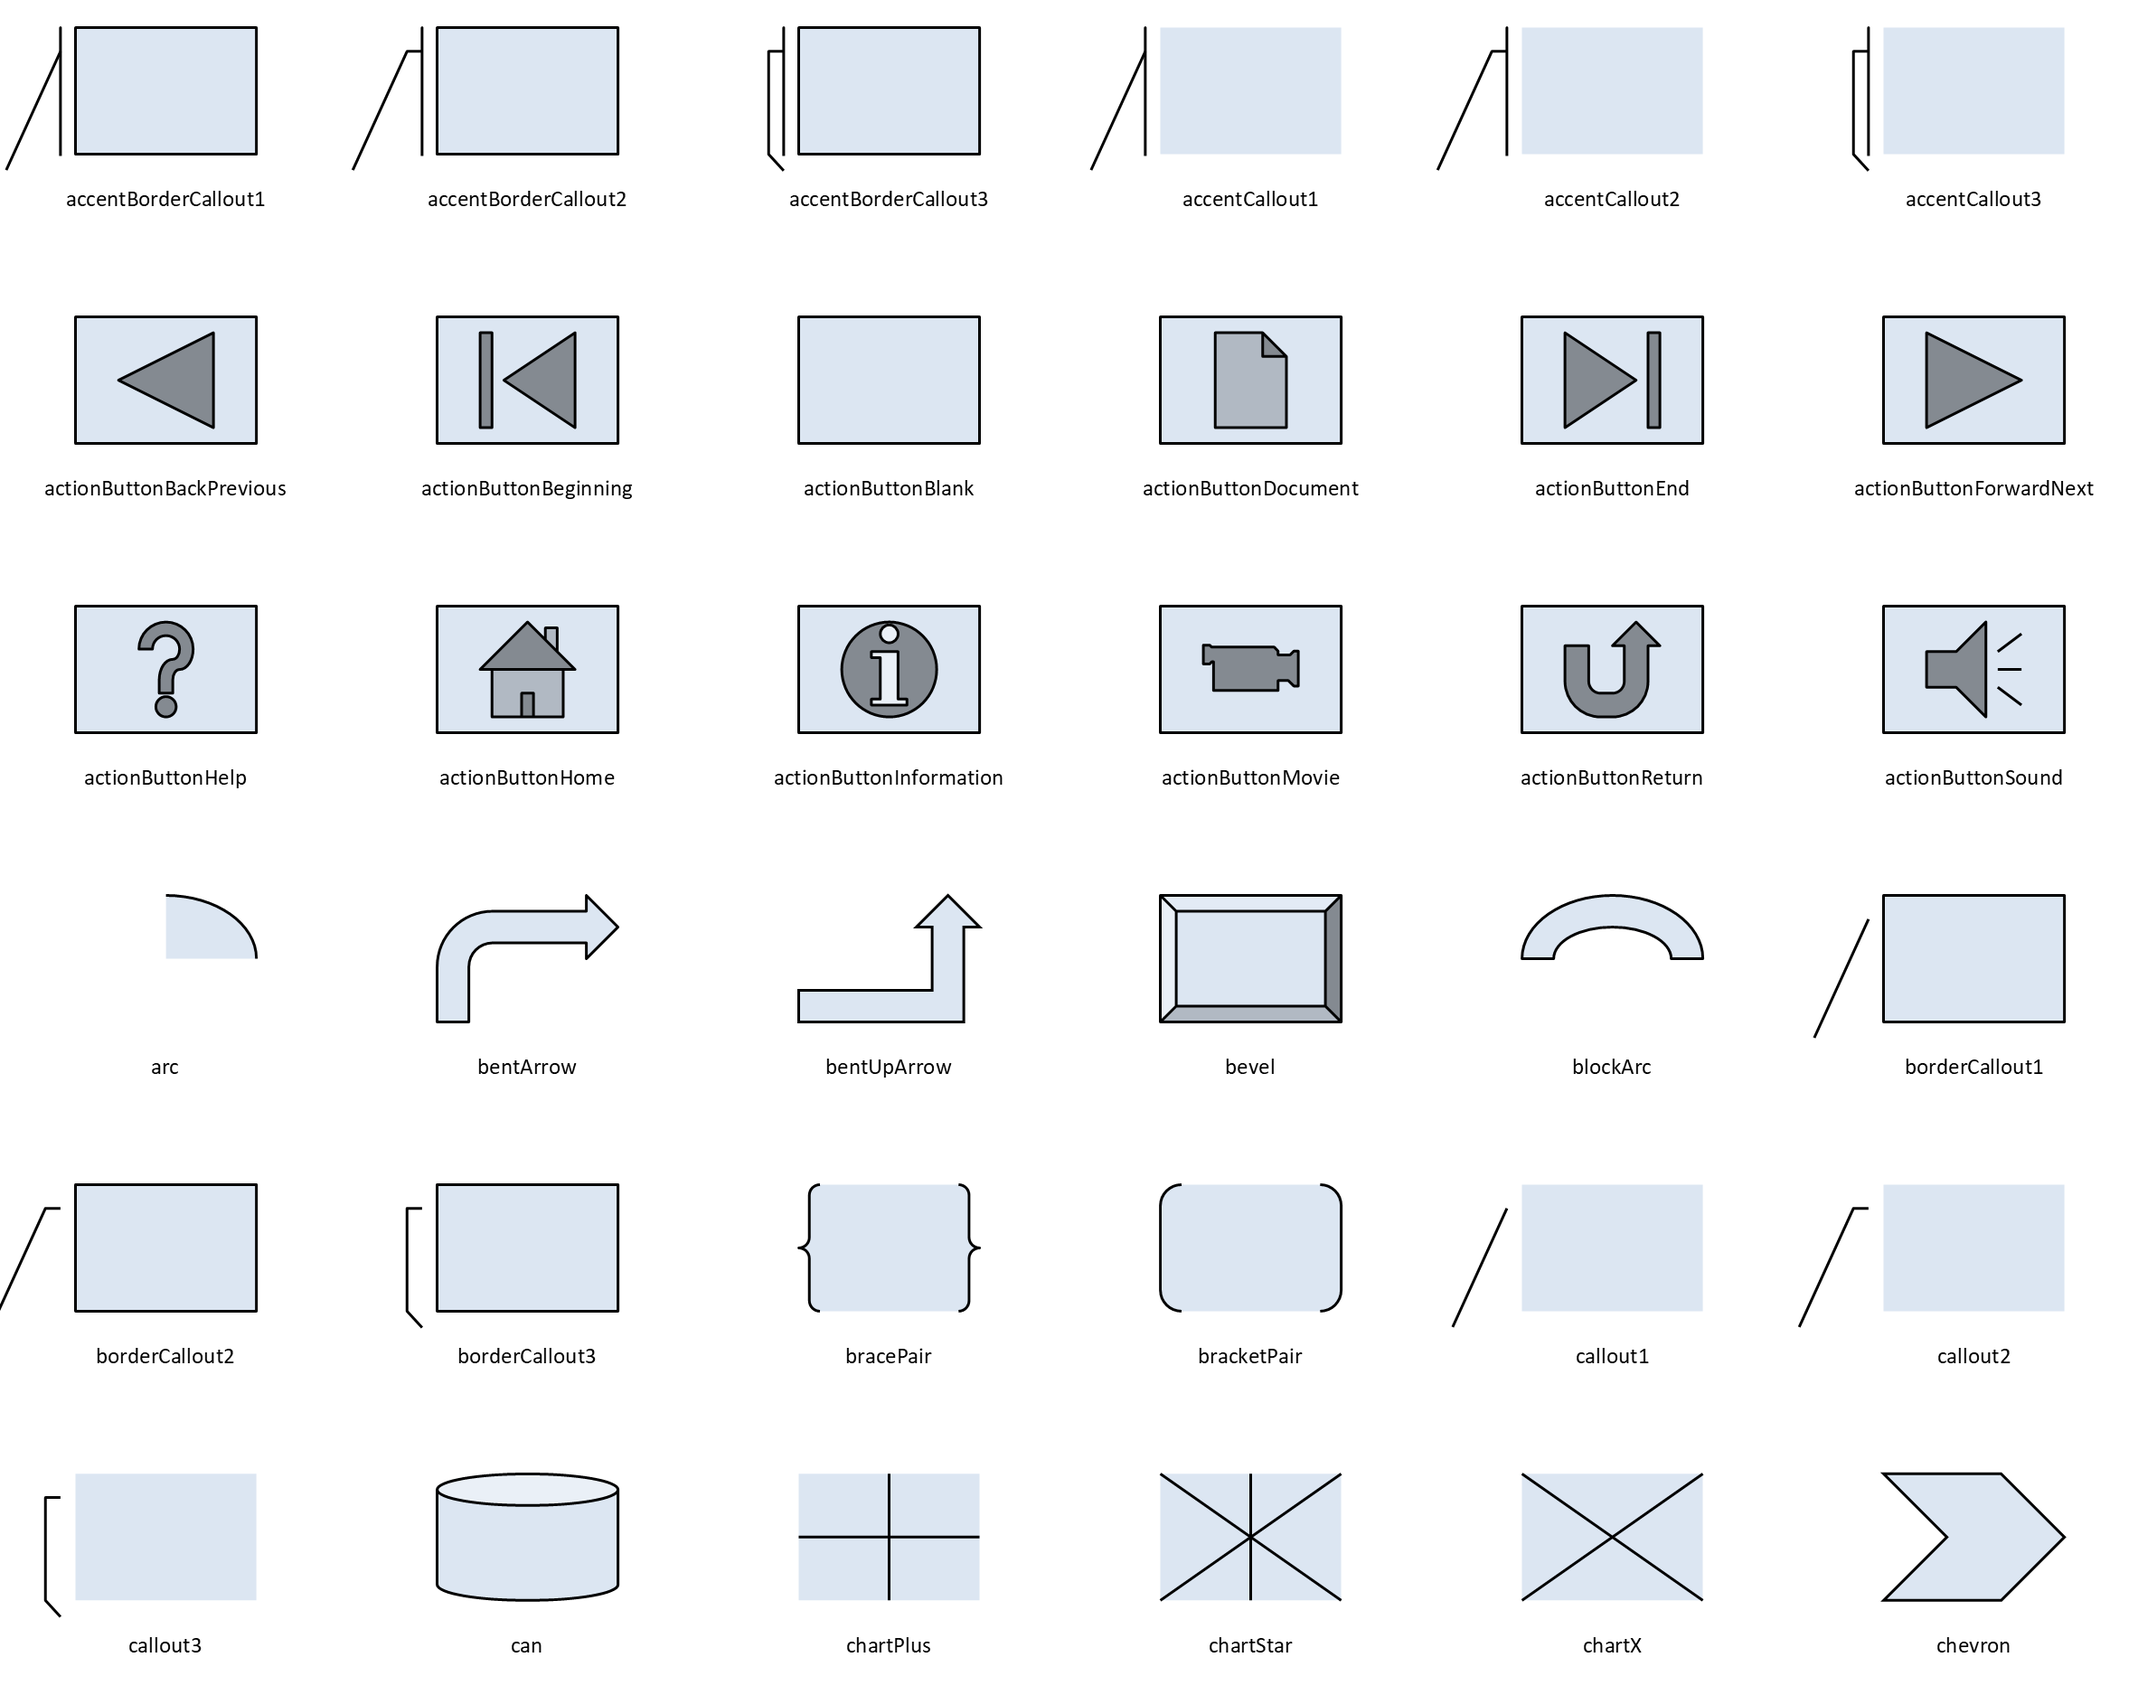
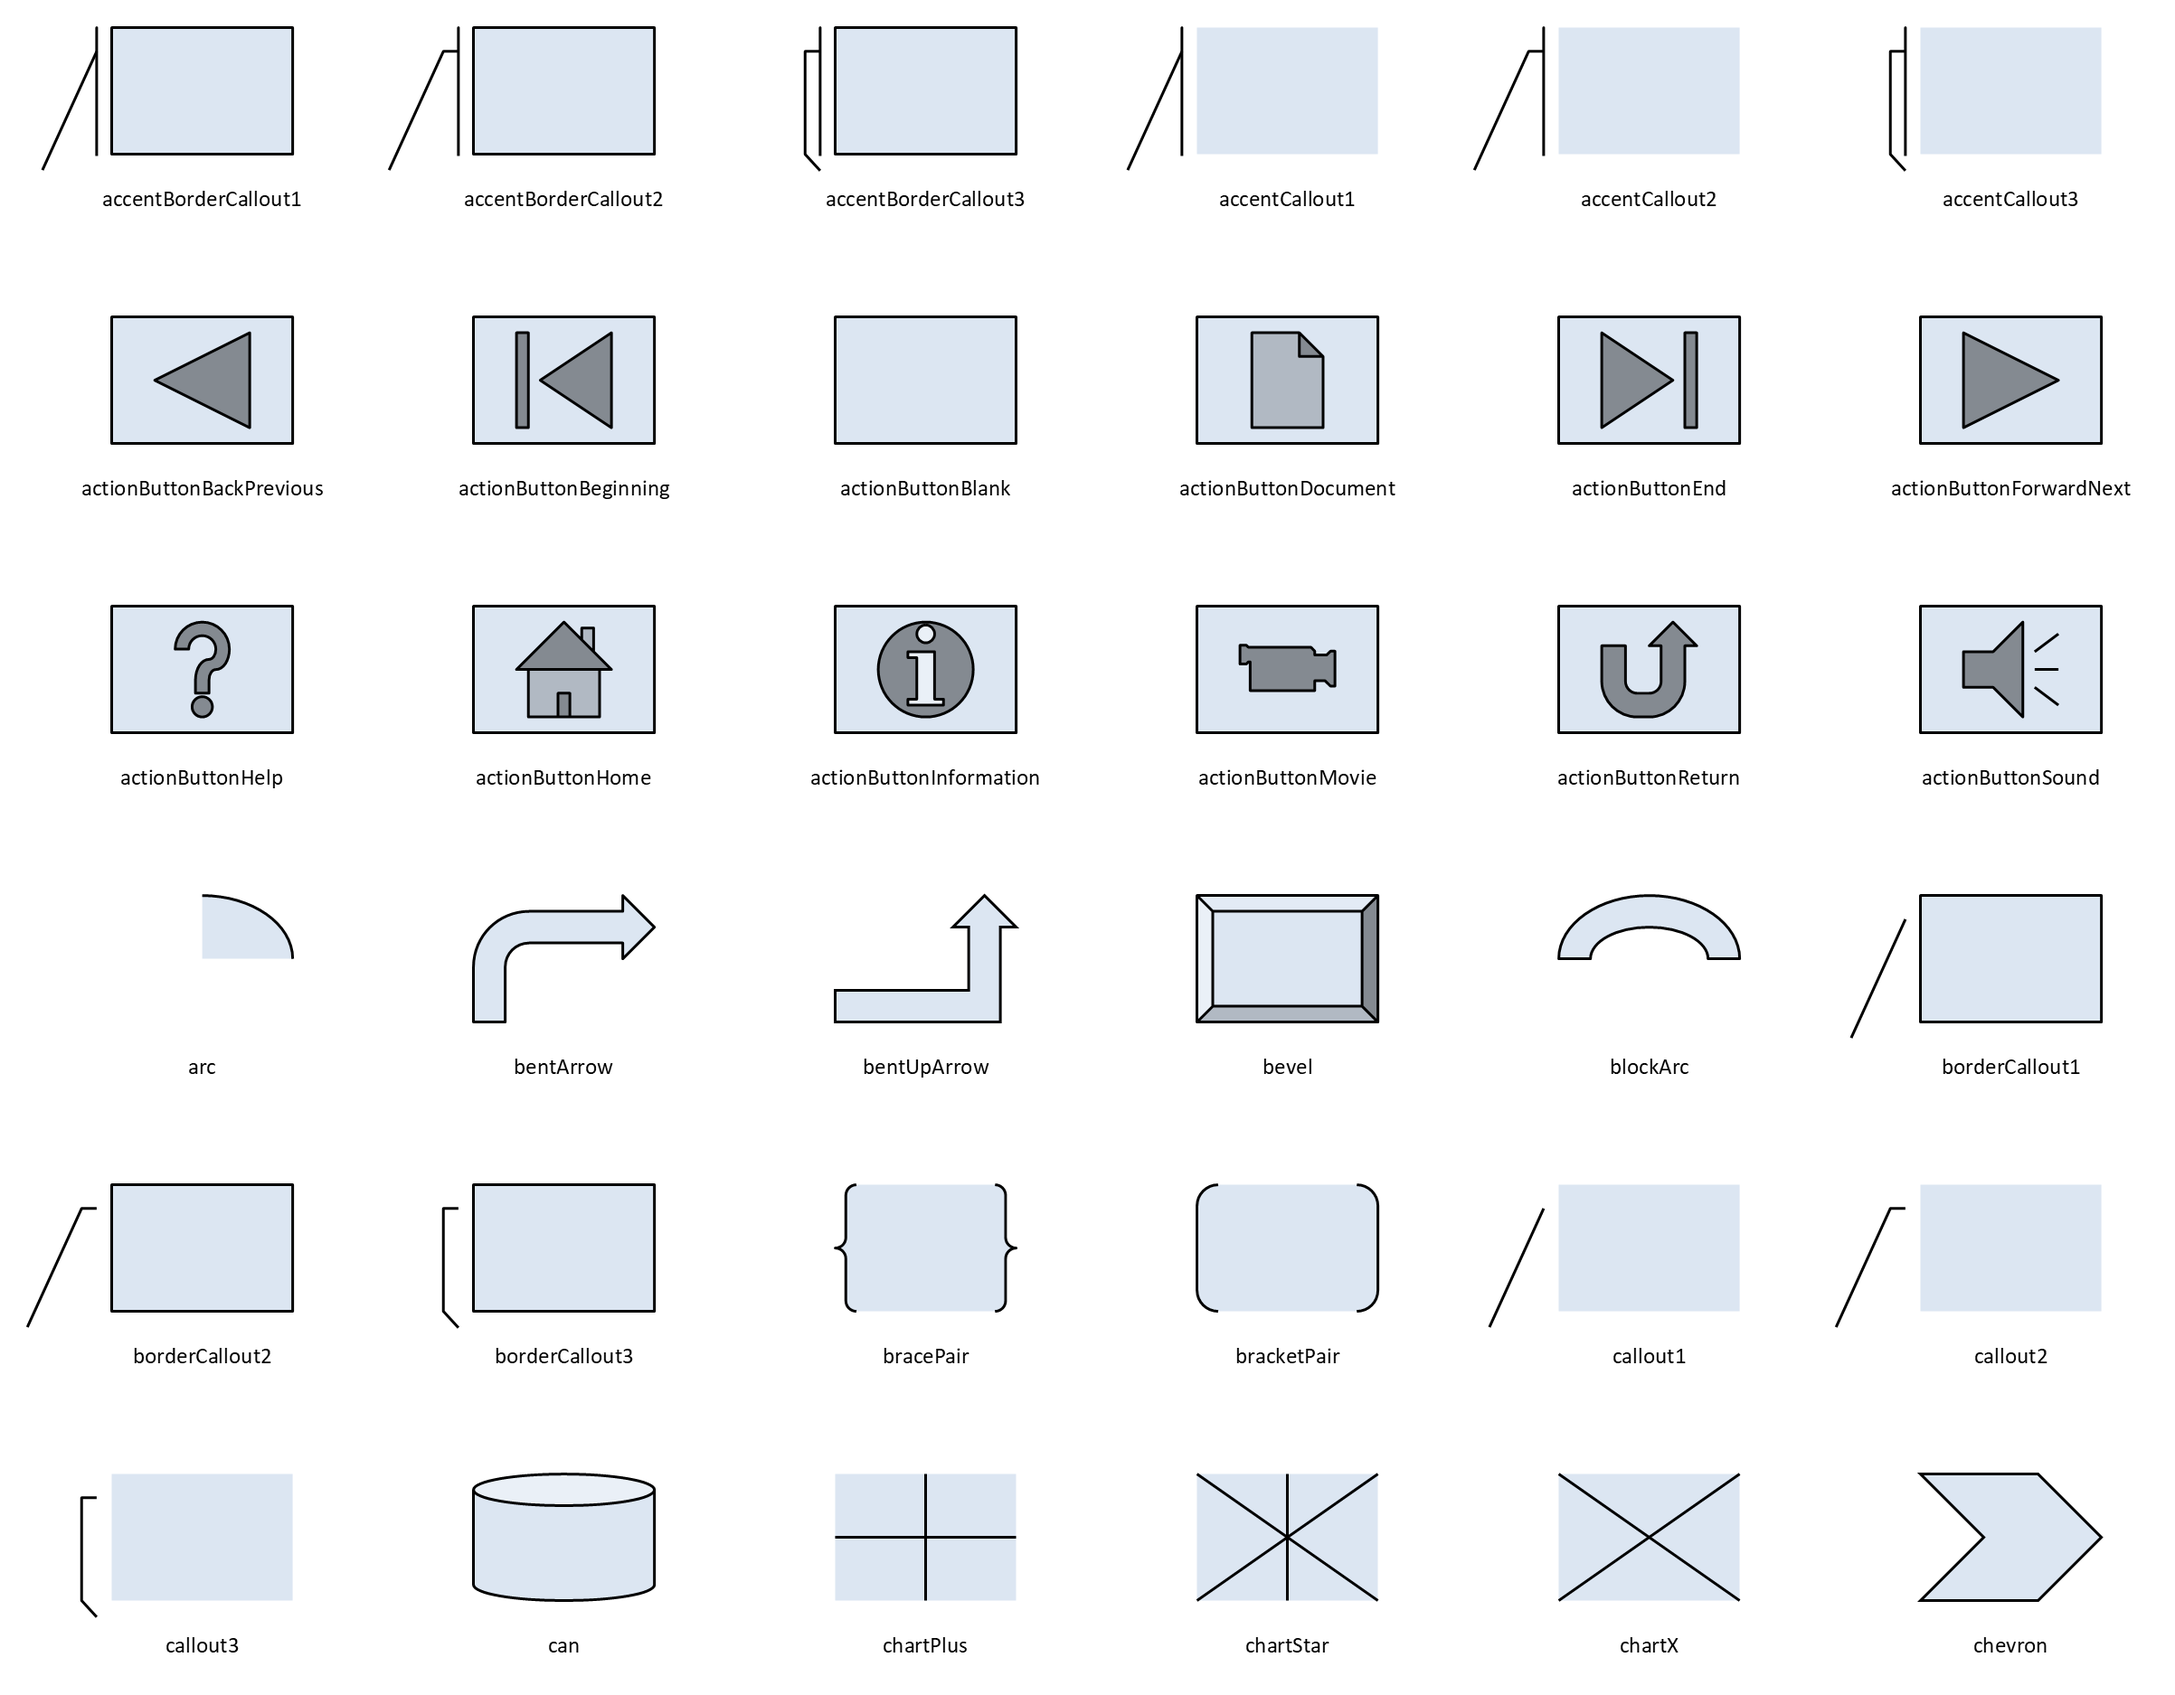
Hold a callout's tip and leader line on the slide
A callout's tip, and its leader line, are drawn outside its box: where
`tip at` points, and even by default, a wedge's an eighth of its height
below it, a leader line off to its lower left. The slide was sized to
the boxes and the lines' labels alone, so they ran off it and were cut
off, with no warning. The gallery's borderCallout2 had lost the end of
its line.

Now the slide holds them, as it holds a line's labels, and with
--template the warning about a diagram bigger than its content area
counts them. --check gives a callout's `tip`, since x, y, wid and ht
don't show it.

Closes #30

diff --git a/src/pikslide/pptx_writer.py b/src/pikslide/pptx_writer.py
@@ -45,6 +45,7 @@ from .pik.layout import (
     _text_size_name,
     arc_control_point,
     assign_text_slots,
+    callout_points,
     default_text_sizes,
     flatten_shapes,
     line_points,
@@ -964,19 +965,28 @@ def _add_line_text(container, shape: Shape, tf: _Transform) -> None:
         _apply_color(run.font.color, string_color(shape, i - 1) or Color(rgb=0))
 
 
+def _drawn_extent(shape: Shape) -> tuple[float, float, float, float]:
+    """shape.bbox, expanded to also cover what is drawn outside it: a
+    line's labels -- a line's own bbox is just its path, so a label
+    floating above/below it (see _line_label_rects()) can stick out past
+    it -- and a callout's tip or leader line (callout_points())."""
+    x0, y0, x1, y1 = shape.bbox
+    rects = [rect for rect, _text, _flags in _line_label_rects(shape)] if shape.kind in LINE_LIKE else []
+    rects += [(x, y, x, y) for x, y in callout_points(shape)]
+    for rx0, ry0, rx1, ry1 in rects:
+        x0, y0, x1, y1 = min(x0, rx0), min(y0, ry0), max(x1, rx1), max(y1, ry1)
+    return x0, y0, x1, y1
+
+
 def _content_bbox(result: LayoutResult) -> tuple[float, float, float, float]:
-    """result.bbox, expanded to also cover line labels -- a line's own
-    bbox is just its path, so a label floating above/below it (see
-    _line_label_rects()) can stick out past result.bbox on its own.
-    flatten_shapes(), not result.shapes directly, since a line can be
-    nested inside a block (docs/spec.md SS3.1, ext) at any depth."""
+    """result.bbox, expanded to also cover what each shape draws outside
+    its own (_drawn_extent()). flatten_shapes(), not result.shapes
+    directly, since a line can be nested inside a block (docs/spec.md
+    SS3.1, ext) at any depth."""
     x0, y0, x1, y1 = result.bbox
     for shape in flatten_shapes(result.shapes):
-        if shape.kind not in ("line", "arrow", "spline", "arc"):
-            continue
-        for (lx0, ly0, lx1, ly1), _text, _flags in _line_label_rects(shape):
-            x0, y0 = min(x0, lx0), min(y0, ly0)
-            x1, y1 = max(x1, lx1), max(y1, ly1)
+        sx0, sy0, sx1, sy1 = _drawn_extent(shape)
+        x0, y0, x1, y1 = min(x0, sx0), min(y0, sy0), max(x1, sx1), max(y1, sy1)
     return x0, y0, x1, y1
 
 
@@ -1209,7 +1219,7 @@ def _content_area_overflow(prs: Presentation, layout, result: LayoutResult) -> l
     """A warning, if the diagram is wider or taller than the content area
     it goes in: it is never scaled to fit (docs/spec.md SS4), so it runs
     past it, to the right and down. It names the objects that do, a
-    line's labels counting as part of it."""
+    line's labels and a callout's tip counting as part of it."""
     (_left, _top, area_w, area_h), what = _content_area(prs, layout)
     x0, y0, x1, y1 = _content_bbox(result)
     w, h = x1 - x0, y1 - y0
@@ -1217,10 +1227,7 @@ def _content_area_overflow(prs: Presentation, layout, result: LayoutResult) -> l
         return []
     past = []
     for shape in flatten_shapes(result.shapes):
-        sx0, sy0, sx1, sy1 = shape.bbox
-        labels = _line_label_rects(shape) if shape.kind in LINE_LIKE else []
-        for (lx0, ly0, lx1, ly1), _text, _flags in labels:
-            sx0, sy0, sx1, sy1 = min(sx0, lx0), min(sy0, ly0), max(sx1, lx1), max(sy1, ly1)
+        _sx0, sy0, sx1, _sy1 = _drawn_extent(shape)
         if sx1 - x0 > area_w + 1e-6 or y1 - sy0 > area_h + 1e-6:
             past.append(shape.name or "")
     return [LayoutWarning(

diff --git a/tests/test_handles.py b/tests/test_handles.py
@@ -10,7 +10,7 @@ import pytest
 from pptx import Presentation
 
 from pikslide.pik import ast, parse
-from pikslide.pik.layout import LayoutError, flatten_shapes, resolve_layout
+from pikslide.pik.layout import LayoutError, callout_points, flatten_shapes, resolve_layout
 from pikslide.pik.text_area import text_rect
 from pikslide.pptx_writer import resolve_for_pptx, write_pptx
 
@@ -161,3 +161,21 @@ def test_the_deck_has_the_adjust_values(tmp_path: pathlib.Path):
     assert guides(arrow) == [("adj1", "val 50000"), ("adj2", "val 30000")]
     assert guides(card) == [("adj", "val 30000")]
     assert guides(callout) == [("adj1", "val 200000"), ("adj2", "val 200000")]
+
+
+def test_callout_points_are_where_its_tip_and_leader_line_are_drawn():
+    # Issue #30: outside the box, for the slide to hold them.
+    assert callout_points(shape("shape wedgeRectCallout at (0, 0) tip at (1.5, -1)\n")) == [pytest.approx((1.5, -1))]
+    # The preset's defaults, with no tip: an eighth of its height below it.
+    assert callout_points(shape("shape wedgeRectCallout wid 1 ht 1\n")) == [pytest.approx((-0.20833, -0.625))]
+    # A leader line's points, the tip last.
+    [*bends, tip] = callout_points(shape("shape callout2 at (0, 0) tip at (-1.5, -0.5)\n"))
+    assert len(bends) == 2 and tip == pytest.approx((-1.5, -0.5))
+    assert callout_points(shape("shape rightArrow\n")) == []
+
+
+def test_the_slide_holds_a_callouts_tip(tmp_path: pathlib.Path):
+    out = tmp_path / "out.pptx"
+    write_pptx(resolve_for_pptx(parse("shape wedgeRectCallout wid 1 ht 1 at (0, 0) tip at (2, -2)\n")), str(out), margin=0)
+    prs = Presentation(str(out))
+    assert (prs.slide_width.inches, prs.slide_height.inches) == pytest.approx((2.5, 2.5))

diff --git a/src/pikslide/__init__.py b/src/pikslide/__init__.py
@@ -5,7 +5,7 @@ import sys
 from importlib.metadata import version
 
 from .pik import PikSyntaxError, dump, format_syntax_error, parse
-from .pik.layout import LayoutError, LayoutWarning, flatten_shapes
+from .pik.layout import LayoutError, LayoutWarning, callout_points, flatten_shapes
 from .pik.tokens import column_at
 from .pptx_writer import find_settings_file, resolve_for_pptx, slide_frame, write_pptx, write_pptx_from_template
 from .help import hint as help_hint
@@ -239,7 +239,8 @@ def _succeed_check(warnings: list[LayoutWarning], slide: dict, shapes: list) -> 
 def _geometry(shape) -> dict:
     """Where `shape` went, as the source itself would measure it: x, y,
     wid and ht as `A.x`, `A.y`, `A.wid` and `A.ht` give them (inches, y
-    up), or for a line the points it passes through."""
+    up), and a callout's tip, which is often outside them (issue #30); or
+    for a line the points it passes through."""
     kind = f"shape {shape.preset}" if shape.kind == "shape" else shape.kind
     obj: dict = {"name": shape.name, "kind": kind}
     if shape.texts:
@@ -251,6 +252,9 @@ def _geometry(shape) -> dict:
             obj["attached"] = attached
     else:
         obj.update(x=round(shape.cx, 2), y=round(shape.cy, 2), wid=round(shape.w, 2), ht=round(shape.h, 2))
+        points = callout_points(shape)
+        if points:
+            obj["tip"] = [round(points[-1][0], 2), round(points[-1][1], 2)]
     return obj
 
 

diff --git a/src/pikslide/pik/layout.py b/src/pikslide/pik/layout.py
@@ -1580,6 +1580,24 @@ def _tip_values(shape: Shape, tip: tuple[float, float]) -> dict[str, float]:
     return values
 
 
+def callout_points(shape: Shape) -> list[tuple[float, float]]:
+    """Where a callout's tip, or the points of its leader line, are drawn
+    (inches, y up), the tip last, from its adjust values or else the
+    preset's defaults: often outside its box, which its bbox is (issue
+    #30). Empty for any other shape."""
+    preset = shape.preset or ""
+    if preset not in TIP_CALLOUTS:
+        return []
+    values = {**dict(ADJUST_VALUES[preset]), **shape.adjust}
+    if preset in _WEDGE_CALLOUTS:
+        return [(shape.cx + values["adj1"] / 100000 * shape.w, shape.cy - values["adj2"] / 100000 * shape.h)]
+    left, top = shape.cx - shape.w / 2, shape.cy + shape.h / 2
+    return [
+        (left + values[f"adj{2 * k + 2}"] / 100000 * shape.w, top - values[f"adj{2 * k + 1}"] / 100000 * shape.h)
+        for k in range(TIP_CALLOUTS[preset])
+    ]
+
+
 def _autosize_text(shape: Shape, ctx: _Ctx) -> None:
     """Size a "fit" object to its text using ctx.metrics: the pptx
     backend's PilFontMetrics measures actual glyph widths; only the fallback _ApproxMetrics estimates from flat constants.

diff --git a/tests/test_pptx_writer.py b/tests/test_pptx_writer.py
@@ -775,6 +775,15 @@ def test_diagram_bigger_than_the_content_area_is_a_warning(tmp_path: pathlib.Pat
     assert w.objects == ("box 1",)
 
 
+def test_a_callouts_tip_past_the_content_area_is_a_warning(tmp_path: pathlib.Path):
+    # Issue #30: the box fits, its tip doesn't.
+    tmpl = _template_deck(tmp_path)
+    [w] = resolve_for_pptx(parse("C: shape wedgeRectCallout wid 1 ht 1 at (0, 0) tip at (9, 0)\n"),
+                           template_path=str(tmpl)).warnings
+    assert w.message.startswith("the diagram (9.50 x 1.00 in) is bigger than")
+    assert w.objects == ("C",)
+
+
 def test_template_uses_title_and_content_by_default(tmp_path: pathlib.Path):
     # The first layout with exactly one placeholder besides its title,
     # subtitle, date, footer and slide number: not Title Slide (a title and

diff --git a/tests/test_cli.py b/tests/test_cli.py
@@ -271,6 +271,14 @@ def test_check_reports_where_each_object_went(monkeypatch, capsys, tmp_path):
                      "points": [[1.38, 2.0], [2.38, 2.0], [2.38, 3.0]]}
 
 
+def test_check_reports_a_callouts_tip(monkeypatch, capsys, tmp_path):
+    # Issue #30: often outside x, y, wid and ht.
+    src = _write(tmp_path, "d.pik", 'C: shape wedgeRectCallout "note" at (0, 0) tip at (1.5, -1)\n')
+    _run(monkeypatch, [str(src), "--check"])
+    [callout] = json.loads(capsys.readouterr().out)["objects"]
+    assert callout["tip"] == [1.5, -1.0]
+
+
 def test_check_names_a_preset_and_leaves_out_what_isnt_drawn(monkeypatch, capsys, tmp_path):
     src = _write(tmp_path, "d.pik", "P: (0, 0)\nmove\nshape chevron\n")
     _run(monkeypatch, [str(src), "--check"])

diff --git a/src/pikslide/help.py b/src/pikslide/help.py
@@ -1034,7 +1034,8 @@ def llm_text() -> str:
         "with the objects it names, among them objects, text and lines that overlap;",
         "the slide, its left and top edges, wid and ht, and placeholders (none",
         "without --template), nothing else being on it; and where each object went,",
-        "x, y, wid and ht as A.x, A.y, A.wid and A.ht give them, or a line's points.",
+        "x, y, wid and ht as A.x, A.y, A.wid and A.ht give them (and a callout's",
+        "tip), or a line's points.",
         "",
         _INTRO_BODY,
         "KEYWORDS",

diff --git a/src/pikslide/docs/spec.md b/src/pikslide/docs/spec.md
@@ -640,7 +640,8 @@ pikslide diagram.pik [OUTPUT.pptx] [--template FILE] [--layout NAME|ID] [--setti
 (unless `--template` is given, see below). Otherwise a new one-slide
 presentation is written there, and an existing file is overwritten. With
 no `--template`, it has the built-in Office theme, and the slide is sized
-to the diagram plus a margin.
+to the diagram plus a margin: all of it that is drawn, a line's labels and
+a callout's tip or leader line too, which can be outside their objects.
 
 `--template deck.pptx` (or a `.potx`) makes it from that file instead, so
 theme colors and fonts resolve the way the real deck will (see §3.3). The
@@ -727,7 +728,8 @@ Humans and LLMs both need errors they can act on.
   diagram's coordinates, its size, and the placeholders it keeps beside
   the diagram (§4) -- and each drawn object's name, kind, text and place:
   `x`, `y`, `wid` and `ht` as `A.x`, `A.y`, `A.wid` and `A.ht` give them,
-  or a line's `points`. Without `--check`, diagnostics are plain text.
+  and a callout's `tip`, which is often outside them, or a line's
+  `points`. Without `--check`, diagnostics are plain text.
 - An error names the help topics that explain it (`see: pikslide --help
   box`; in JSON, each error's `help` list): the syntax error's statement
   class or keyword, or the list an unknown name belongs to (`colors`,
